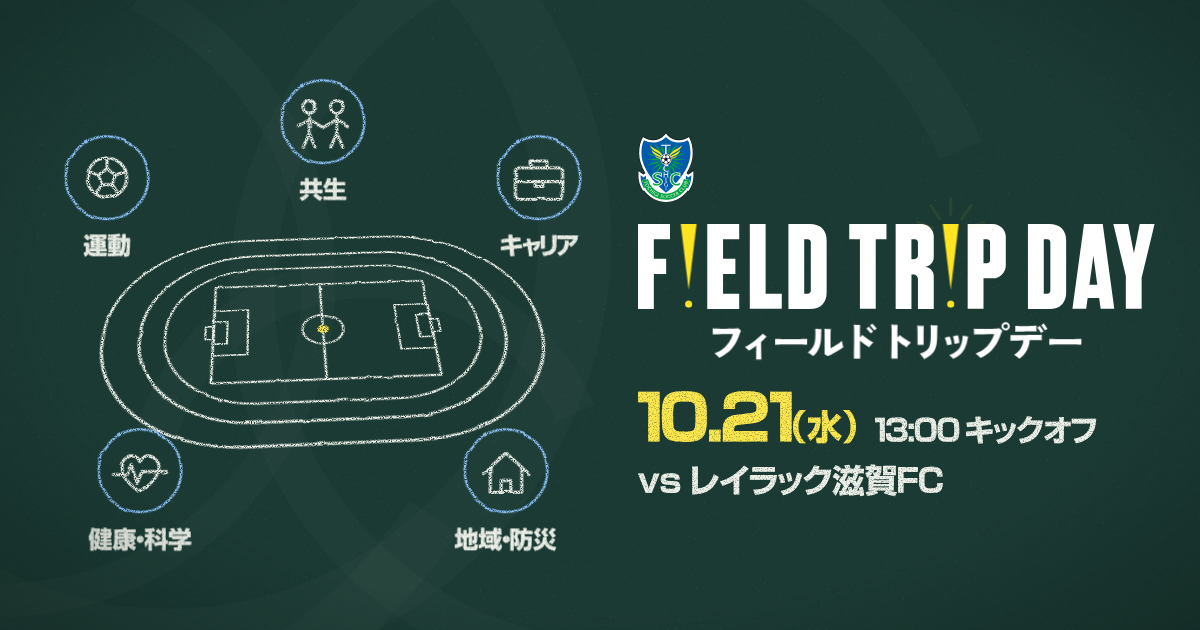
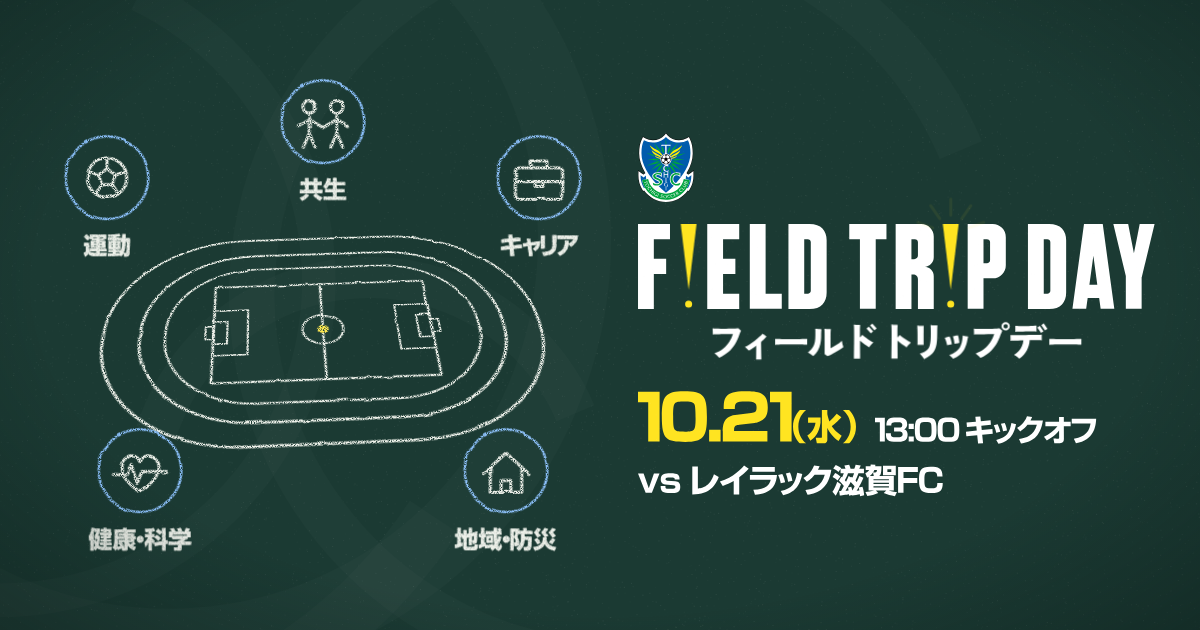
フィールドトリップデーLP：ヒーローの日付・時刻・対戦相手をチョーク調から通常表示に

Changed region(s): [[0.5242, 0.6032, 0.925, 0.7841]]

diff --git a/fieldtrip/index.html b/fieldtrip/index.html
@@ -260,11 +260,11 @@ p { margin: 0; }
 .ftinfo { display: flex; flex-direction: column; align-items: inherit; gap: calc(var(--u) * 2.4); margin-top: calc(var(--u) * .8); }
 .ftinfo .r1 { display: flex; align-items: flex-end; gap: calc(var(--u) * 3); animation-name: finfo1; }
 .ftinfo .d { display: flex; align-items: flex-end; gap: calc(var(--u) * .3); }
-.ftinfo .ch { filter: url(#chalk-jp); }
-.lm-date { height: calc(var(--u) * 10); color: var(--chalk-y); }
-.lm-dow { height: calc(var(--u) * 5.6); color: var(--chalk-y); margin-bottom: calc(var(--u) * .7); }
-.lm-ko { height: calc(var(--u) * 4.8); color: var(--chalk); margin-bottom: calc(var(--u) * .5); }
-.lm-vs { height: calc(var(--u) * 5.2); color: var(--chalk); animation-name: finfo2; }
+/* 日付・時刻・対戦相手もチョーク加工しない（2026-10-10 指定）。チョークは図とアイコンだけ */
+.lm-date { height: calc(var(--u) * 10); color: #FFE421; }
+.lm-dow { height: calc(var(--u) * 5.6); color: #FFE421; margin-bottom: calc(var(--u) * .7); }
+.lm-ko { height: calc(var(--u) * 4.8); color: #fff; margin-bottom: calc(var(--u) * .5); }
+.lm-vs { height: calc(var(--u) * 5.2); color: #fff; animation-name: finfo2; }
 @keyframes finfo1 { 0%, 52% { opacity: 0; transform: translateY(calc(var(--u) * 2)); animation-timing-function: cubic-bezier(.2,.8,.2,1); } 56% { opacity: 1; transform: none; } 100% { opacity: 1; transform: none; } }
 @keyframes finfo2 { 0%, 55% { opacity: 0; transform: translateY(calc(var(--u) * 2)); animation-timing-function: cubic-bezier(.2,.8,.2,1); } 59% { opacity: 1; transform: none; } 100% { opacity: 1; transform: none; } }
 @container stage (aspect-ratio < 1) {
